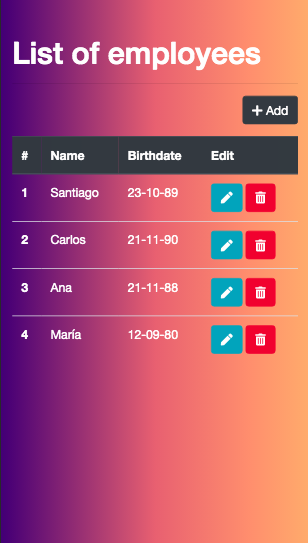
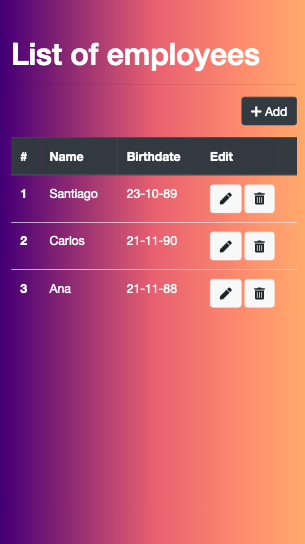
finish project

diff --git a/src/app/pages/employees/employees.component.html b/src/app/pages/employees/employees.component.html
@@ -28,13 +28,13 @@
       <td class="employee-bithdate--text">{{ employee.birthdate }}</td>
       <td>
         <button
-          class="btn btn-info mr-1"
+          class="btn btn-light mr-1"
           [routerLink]="['/employee', employee.id]"
         >
           <i class="fa fa-pen"></i>
         </button>
 
-        <button class="btn btn-danger" (click)="deleteEmployee(employee, i)">
+        <button class="btn btn-light" (click)="deleteEmployee(employee, i)">
           <i class="fa fa-trash"></i>
         </button>
       </td>
